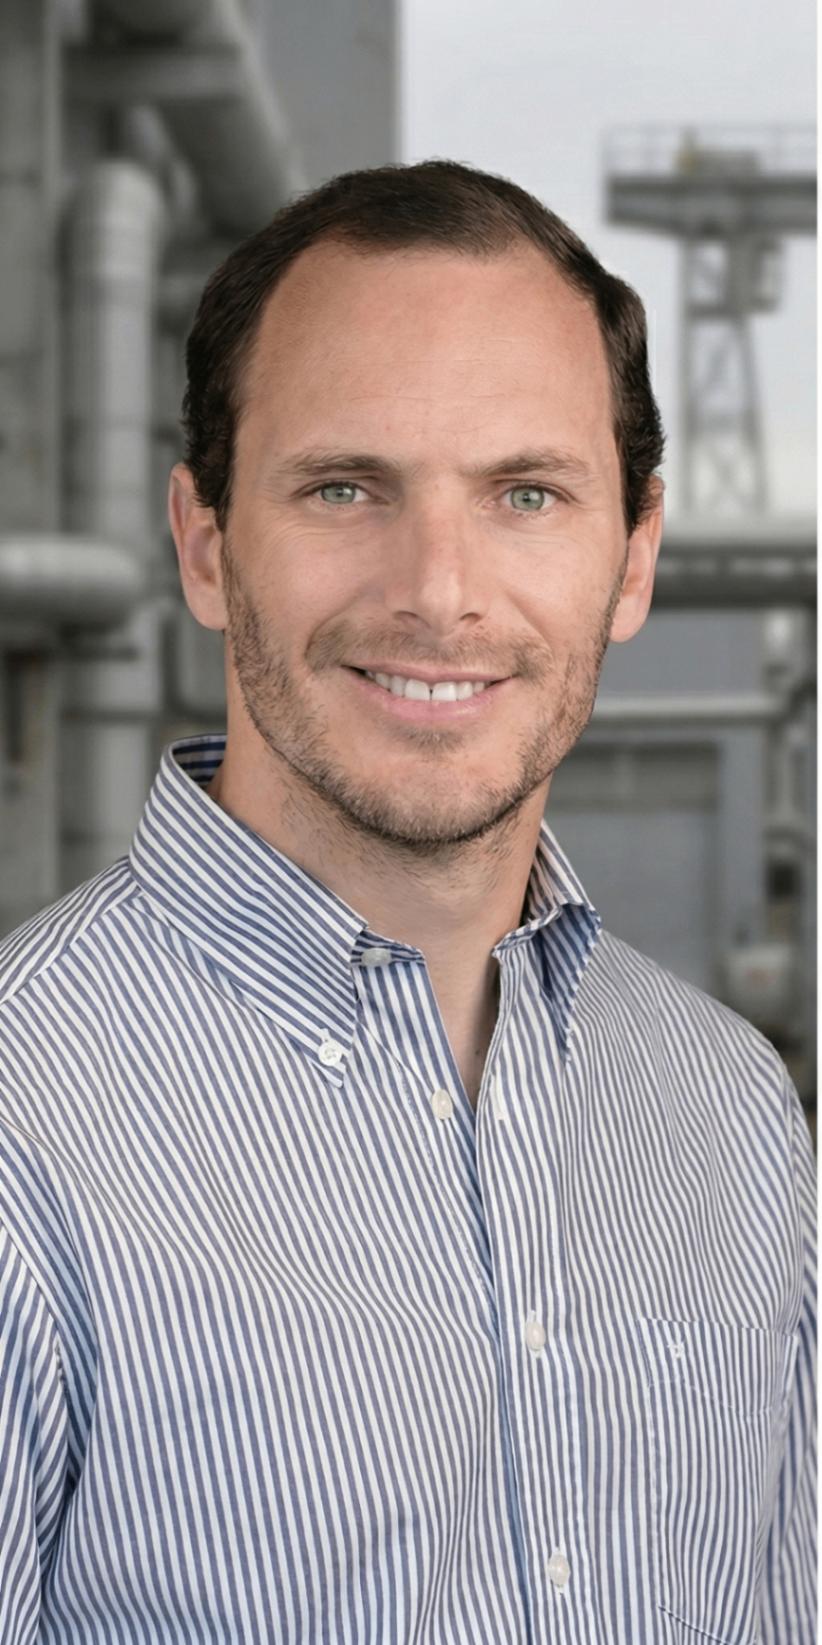
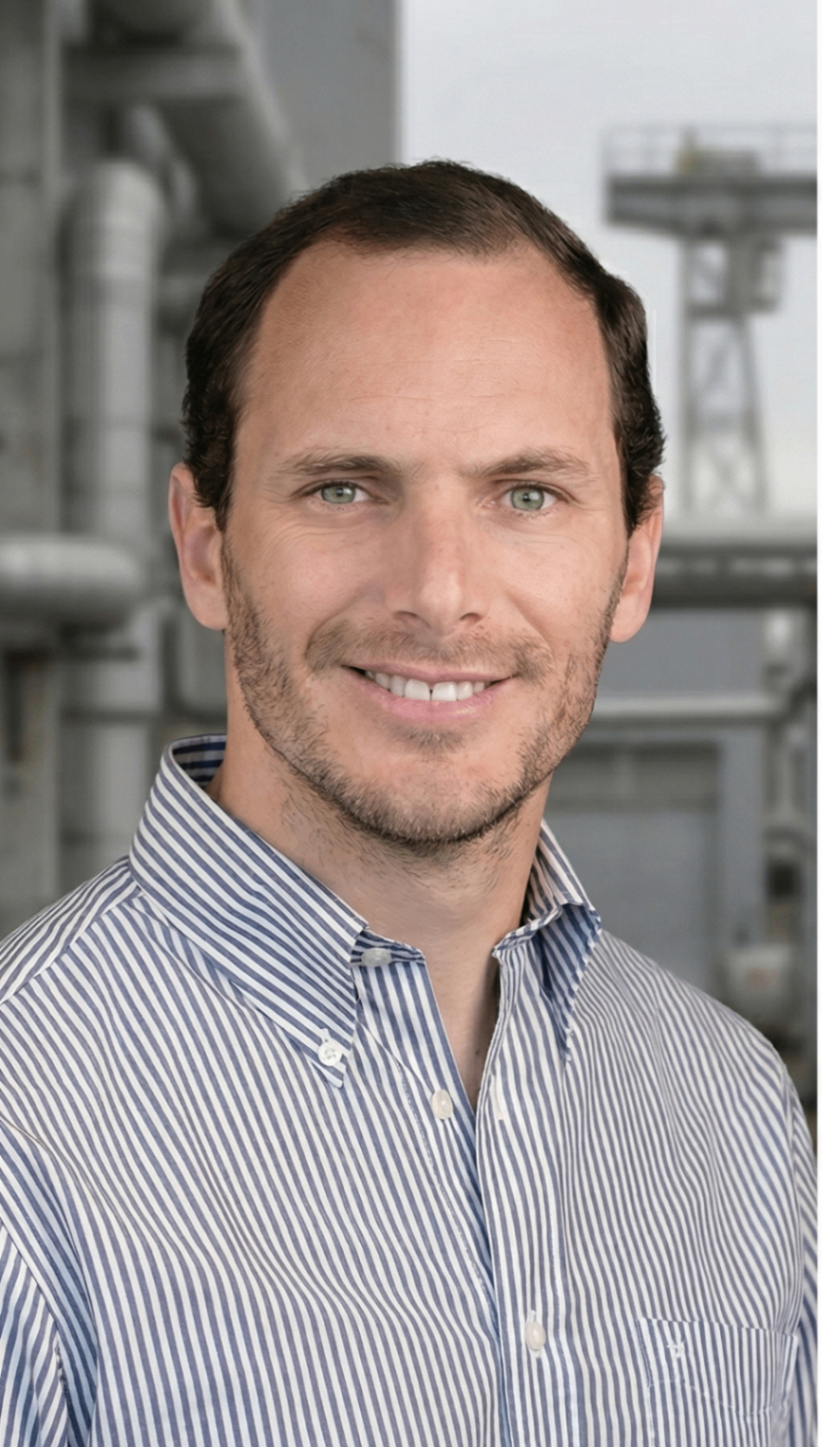
Crop bio photos to remove watermark, use aspect-[4/3] vertical layout

diff --git a/src/components/consultoria/NuestraExperiencia.tsx b/src/components/consultoria/NuestraExperiencia.tsx
@@ -59,12 +59,12 @@ const NuestraExperiencia = () => (
             whileInView={{ opacity: 1, y: 0 }}
             viewport={{ once: true }}
             transition={{ delay: i * 0.15 }}
-            className="bg-card rounded-xl overflow-hidden flex flex-col sm:flex-row"
+            className="bg-card rounded-xl overflow-hidden flex flex-col"
           >
             <img
               src={s.img}
               alt={s.name}
-              className="w-full sm:w-[45%] aspect-[3/4] sm:aspect-auto object-cover object-top"
+              className="w-full aspect-[4/3] object-cover object-top"
             />
             <div className="p-6 flex flex-col flex-1">
               <h3 className="font-heading text-xl font-bold text-foreground">{s.name}</h3>